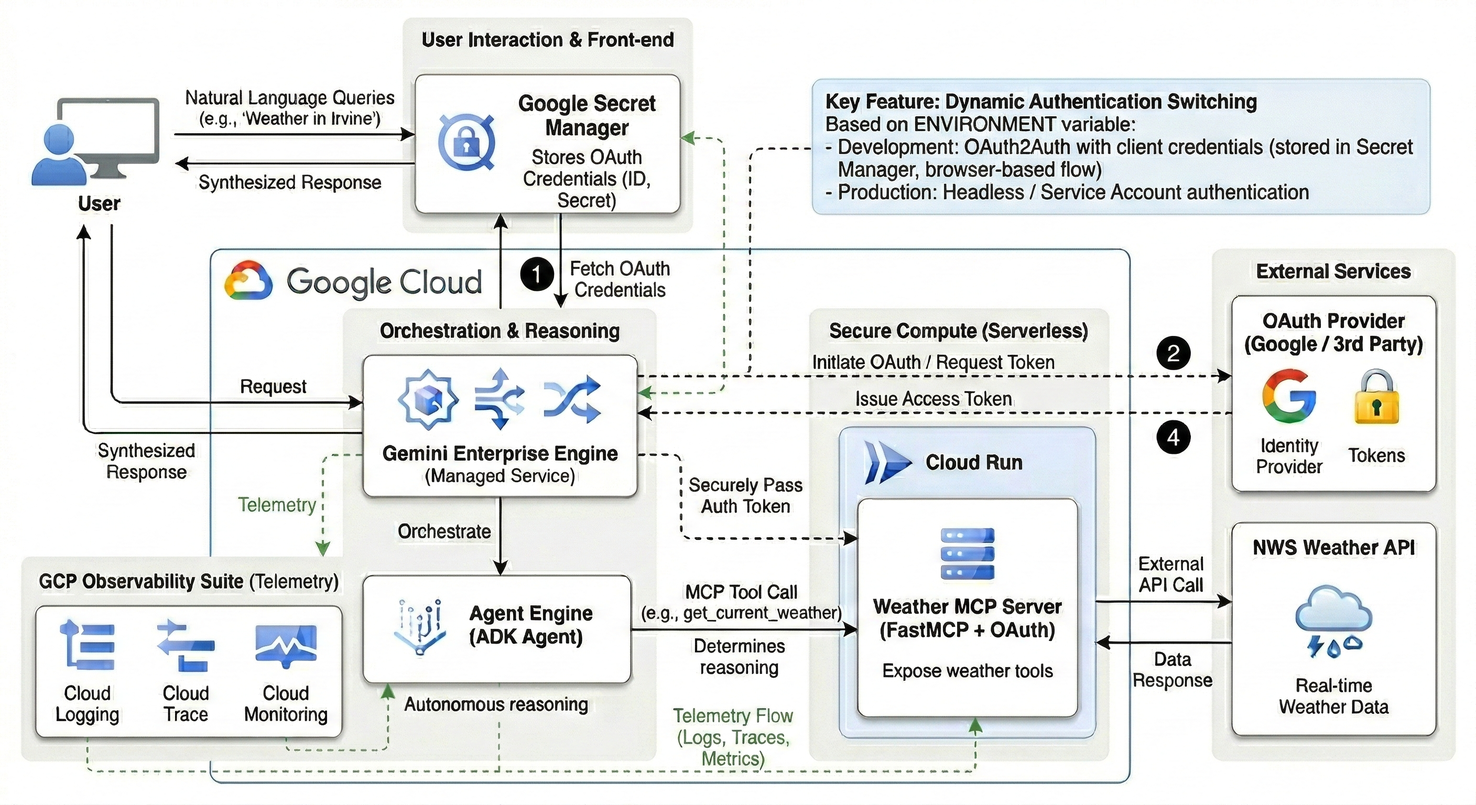
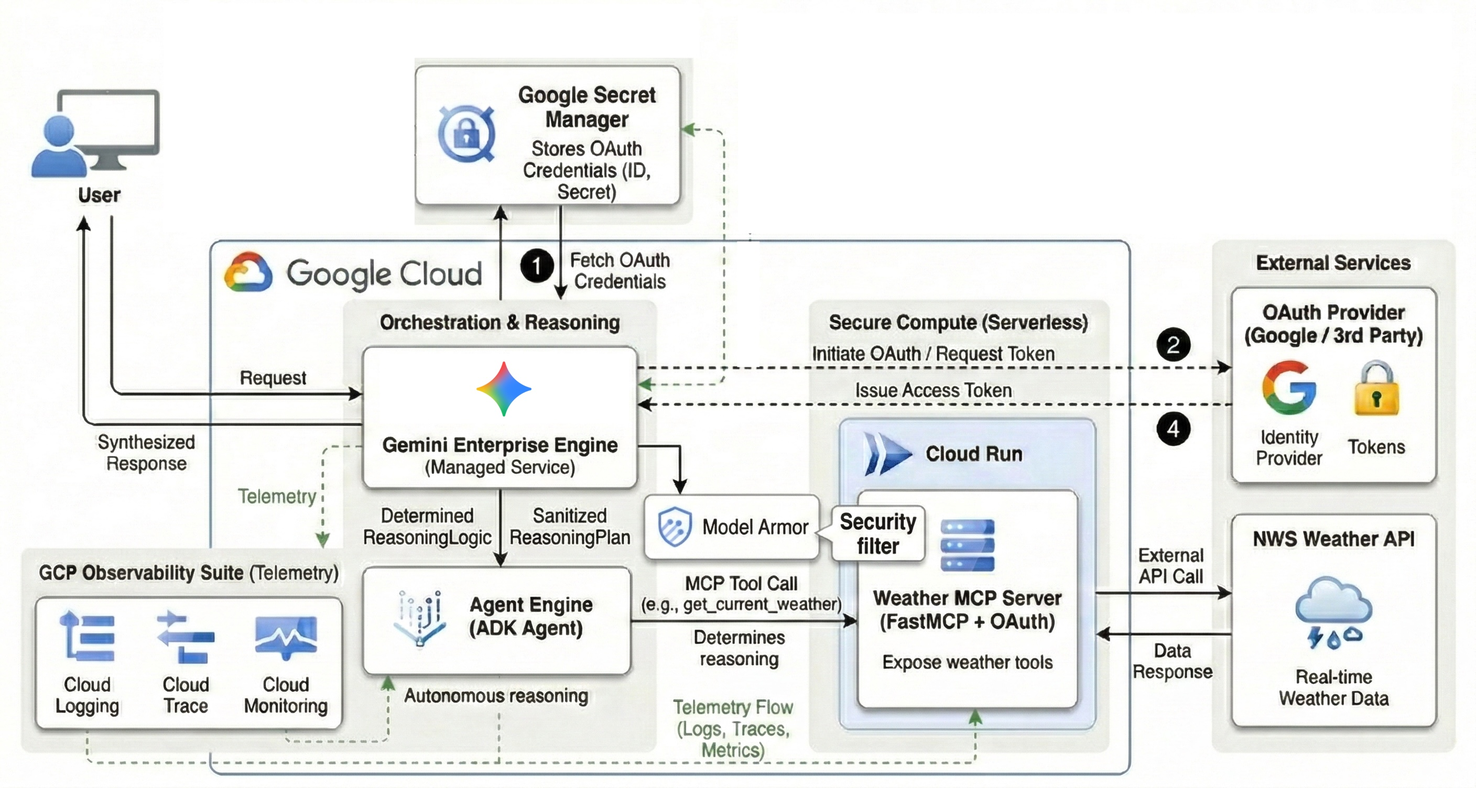
chore: update diagram

diff --git a/README.md b/README.md
@@ -75,6 +75,11 @@ graph TB
         subgraph "User Interface"
         UI["Gemini Enterprise UI"]
         end
+
+        subgraph "Security"
+            MA(["Model Armor<br/>Floor Settings"])
+        end
+
         subgraph "Gemini Enterprise"
             AS["Gemini Enterprise Engine"]
             RE["Agent Engine<br/>ADK Agent"]
@@ -97,6 +102,9 @@ graph TB
     RE -->|MCP Tool Call| MCP
     MCP -->|Fetch Weather| NWS
 
+    AS -.->|Filtered by| MA
+    RE -.->|Filtered by| MA
+
     AS -.->|OAuth Flow| OAUTH
     OAUTH -.->|Tokens| AS
     AS -.->|Pass Token| MCP
@@ -107,6 +115,7 @@ graph TB
     style MCP fill:#e1ffe1,stroke:#333,stroke-width:2px,color:#000
     style OAUTH fill:#ffe1e1,stroke:#333,stroke-width:2px,color:#000
     style NWS fill:#f5f5f5,stroke:#333,stroke-width:2px,color:#000
+    style MA fill:#fff5f5,stroke:#cc0000,stroke-width:2px,stroke-dasharray: 5 5,color:#cc0000
 ```
 
 **Key Feature:** The agent automatically switches between development and production authentication modes based on the `ENVIRONMENT` variable:
